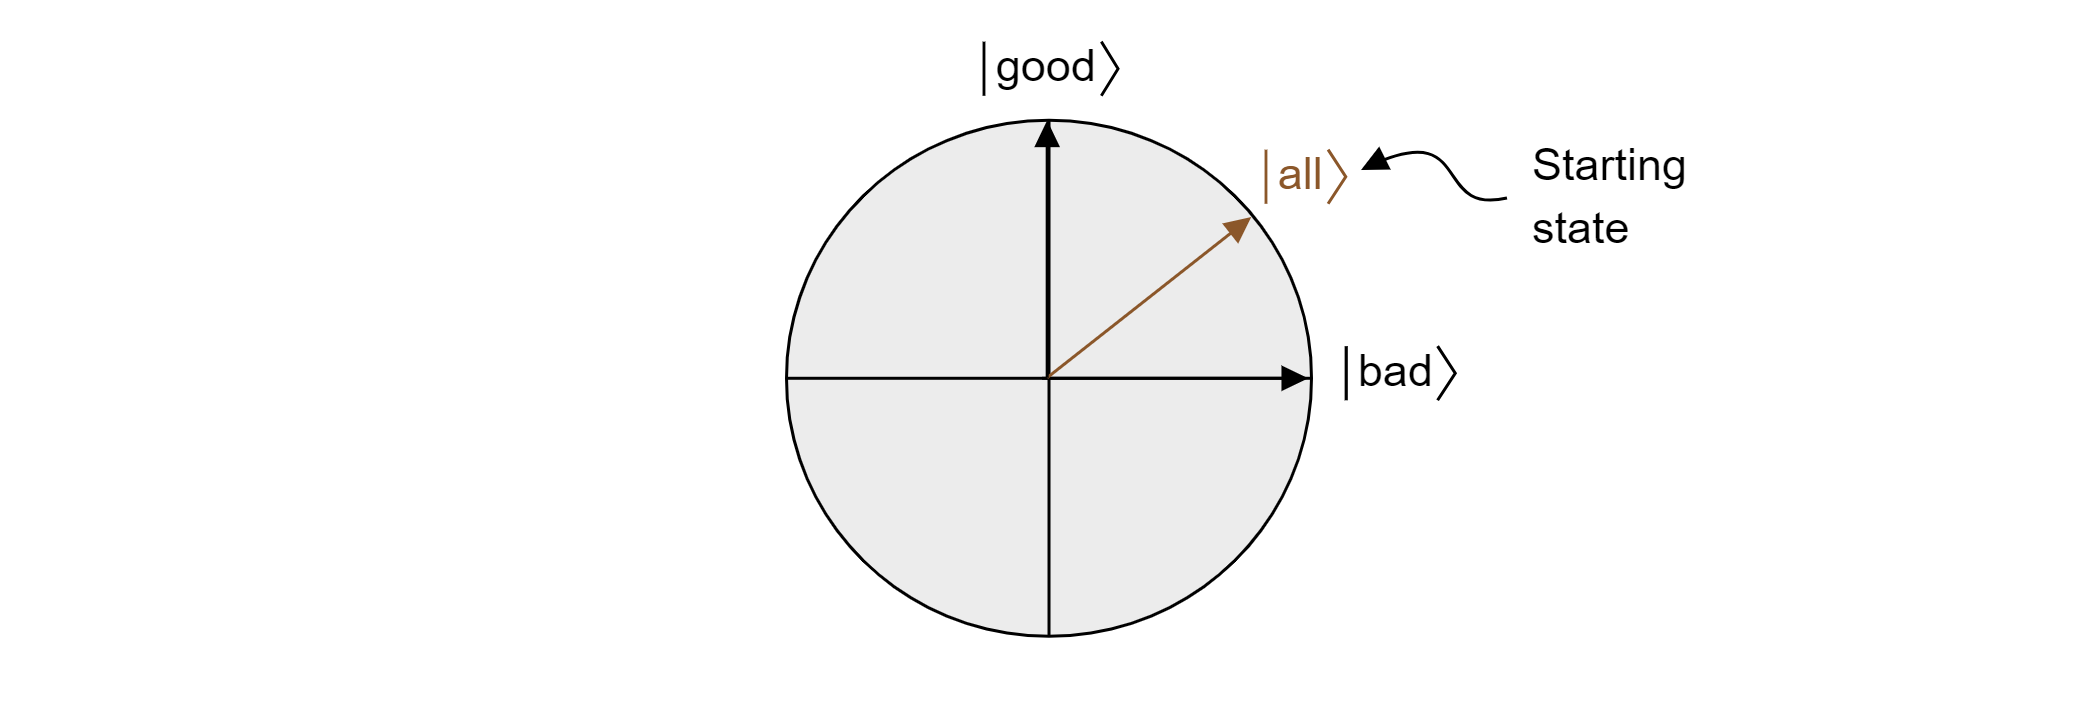
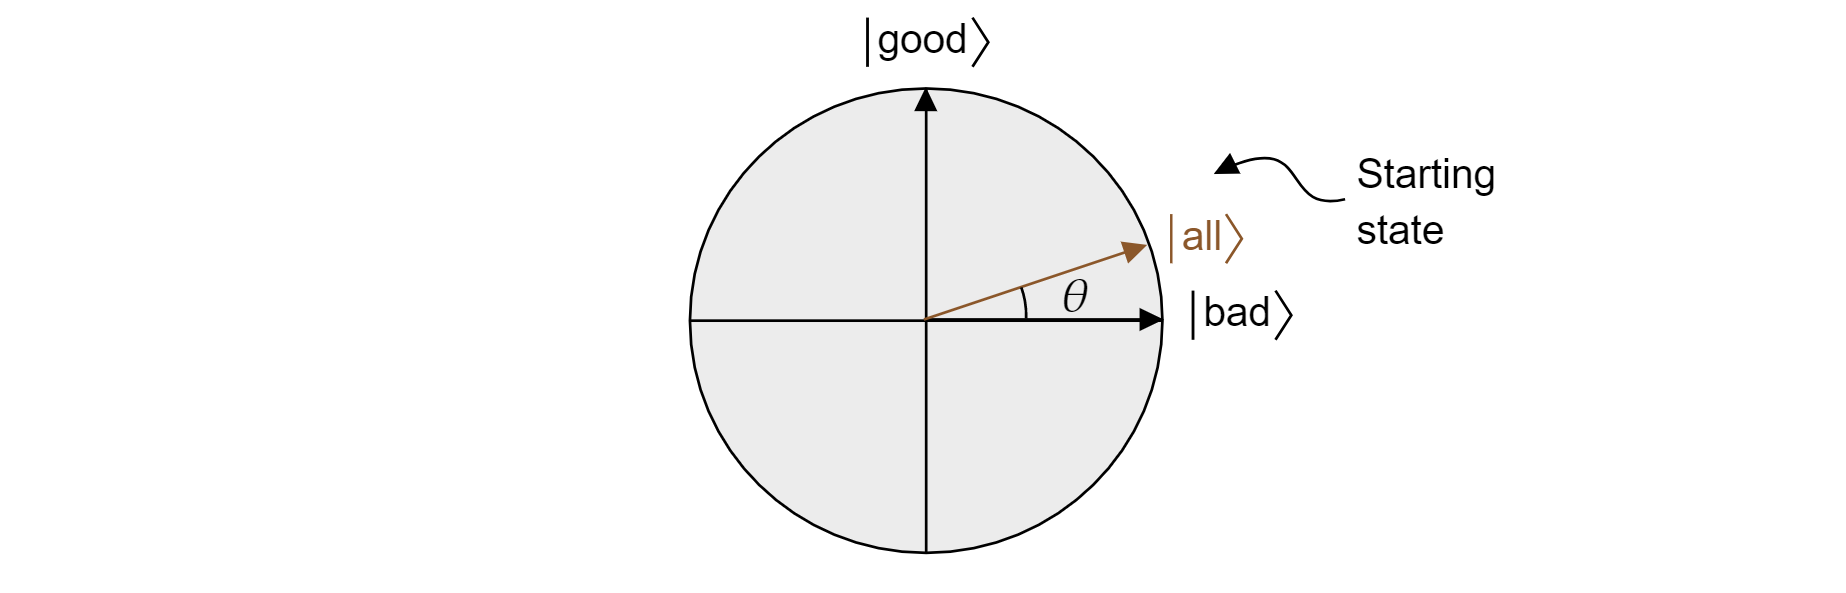
Updating article

diff --git a/articles/concepts-grovers.md b/articles/concepts-grovers.md
@@ -20,13 +20,13 @@ problems you can read our [guide to implement Grover's search algorithm](xref:mi
 
 ## Statement of the problem
 
-Any searching task can be expressed with an abstract function $f(x)$ that accepts search items $x$. If the item $x$ is a solution for the search task, then $f(x)=1$. If the item $x$ isn't a solution, then $f(x)=0$. The search problem consists on finding any item $x_0$ such that $f(x_0)=1$. This is, an item $x_0$ that is a solution of the search problem.
+Any searching task can be expressed with an abstract function $f(x)$ that accepts search items $x$. If the item $x$ is a solution for the search task, then $f(x)=1$. If the item $x$ isn't a solution, then $f(x)=0$. The search problem consists in finding any item $x_0$ such that $f(x_0)=1$. This is, an item $x_0$ that is a solution to the search problem.
 
 The task that Grover's algorithm aims to solve is, given a classical function $f(x):\\{0,1\\}^n \rightarrow\\{0,1\\}$, find an input $x_0$ for which $f(x_0)=1$.
 
 ## Outline of the algorithm
 
-Suppose we have $N=2^n$ eligible items for the search task and we index them by assigning each item a integer from $0$ to
+Suppose we have $N=2^n$ eligible items for the search task and we index them by assigning each item an integer from $0$ to
 $N-1$. The steps of the algorithm are:
 
 1. Start with a register of $n$ qubits initialized in the state $\ket{0}$ by applying $H$ to each qubit of the register.
@@ -39,7 +39,10 @@ $N-1$. The steps of the algorithm are:
 1. Measure the register to obtain the index of a item that's a solution with very high probability.
 1. Check if it's a valid solution. If not, start again.
 
-$N_{\text{optimal}} is the optimal number of iterations that maximizes the likelihood of obtaining the correct item by measuring the register.
+$N_\text{optimal} = \lfloor\lfloor \frac{\pi}{4}\sqrt{\frac{N}{M}}-\frac{1}{2} \right\rflor$ is the optimal number of iterations that maximizes the likelihood of obtaining the correct item by measuring the register.
+
+> [!NOTE]
+> The joint application of the steps 3.b, 3.c and 3.d is usually called in the literature as the Grover's diffusion operator.
 
 The overall unitary operation applied to the register is:
 
@@ -60,25 +63,25 @@ To illustrate the process, let's follow the mathematical transformations of the 
 
 1. Then $H$ acts on each qubit again to give:
 
-  $$|\text{register}\rangle = \frac12(\ket{00}+\ket{01}-\ket{10}+\ket{11})
+   $$|\text{register}\rangle = \frac12(\ket{00}+\ket{01}-\ket{10}+\ket{11})
 
 1. Now we apply the conditional phase shift on every state except $\ket{00}$:
 
-  $$|\text{register}\rangle = \frac12(\ket{00}-\ket{01}+\ket{10}-\ket{11})
+   $$|\text{register}\rangle = \frac12(\ket{00}-\ket{01}+\ket{10}-\ket{11})
 
 1. Now we end the first Grover iteration by applying $H$ again to get:
 
-   $$|\text{register}\rangle = \ket{01}
+    $$|\text{register}\rangle = \ket{01}
 
    We found the valid item in a single iteration. As we will see later, this is because for N=4 and a single valid item, $N_\text{optimal}=1$.
 
 ## Geometrical explanation
 
-To see why Grover's algorithm works let's study the algorithm from a geometrical perspective. Let be $\ket{bad}$ the superposition of all states that aren't a solution of the search problem. Supposing there are $M$ valid solutions, this is:
+To see why Grover's algorithm works let's study the algorithm from a geometrical perspective. Let $\ket{bad}$ be the superposition of all states that aren't a solution to the search problem. Supposing there are $M$ valid solutions, this is:
 
 $$\ket{\text{bad}}=\frac{1}{\sqrt{N-M}}\sum_{x:f(x)=0}\ket{x}$$
 
-Then, we define the state $\ket{good}$ as the superposition of all states that are a solution of the search problem:
+We define the state $\ket{good}$ as the superposition of all states that are a solution to the search problem:
 
 $$\ket{\text{good}}=\frac{1}{\sqrt{M}}\sum_{x:f(x)=1}\ket{x}$$
 
@@ -91,7 +94,7 @@ Now, suppose $\ket{\psi}$ is an arbitrary state that lives in the plane spanned 
 
 $$\ket{\psi} = \alpha \ket{\text{good}} + \beta \ket{\text{bad}}$$
 
-Now, let's introduce the reflection operator $R_{\ket{\psi}}$, where $\ket{\psi}$ is any qubit state. The operator is defined as:
+where $\alpha$ and $\beta$ are real numbers. Now, let's introduce the reflection operator $R_{\ket{\psi}}$, where $\ket{\psi}$ is any qubit state living in the plane. The operator is defined as:
 
 $$R_{\ket{\psi}}=2\ket{\psi}\bra{\psi}-\mathcal{I}$$
 
@@ -103,7 +106,7 @@ If we apply the operator $R_{\ket{\psi}}$ to $\ket{\xi}$ we get:
 
 $$R_{\ket{\psi}}\ket{\xi}=\mu \ket{\psi} - \nu {\ket{\psi^{\perp}}}$$
 
-The operator $R_\ket{\psi}$ inverts the component orthogonal to $\ket{\psi}$ but leaving the $\ket{\psi}$ component unchanged. Therefore $R_\ket{\psi}$ is a reflection about $\ket{\psi}$.
+The operator $R_\ket{\psi}$ inverts the component orthogonal to $\ket{\psi}$ but leaves the $\ket{\psi}$ component unchanged. Therefore, $R_\ket{\psi}$ is a reflection about $\ket{\psi}$.
 
 ![](./media/reflection-operator.png)
 
@@ -113,9 +116,9 @@ $$\ket{\text{all}} = \sqrt{\frac{M}{N}}\ket{\text{good}} + \sqrt{\frac{N-M}{N}}\
 
 ![](./media/starting-state.png)
 
-And therefore the state lives in the plane. Note that the probability of obtaining a correct result when measuring from the equal superposition is just $|\braket{\text{good}|{\text{all}}}|^2=M/N$, that is what we should expect from guessing at random.
+And thus the state lives in the plane. Note that the probability of obtaining a correct result when measuring from the equal superposition is just $|\braket{\text{good}|{\text{all}}}|^2=M/N$, that is what we expect from a random guess.
 
-The oracle $O_f$ adds a negative phase to any solution of the search problem. Therefore, it can be written as a reflection about the $\ket{\text{bad}}$ axis. This is:
+The oracle $O_f$ adds a negative phase to any solution to the search problem. Therefore, it can be written as a reflection about the $\ket{\text{bad}}$ axis. This is:
 
 $$O_f = R_{\ket{\text{bad}}} = 2\ket{\text{bad}}\bra{\text{bad}} - \mathcal{I}$$
 
@@ -123,17 +126,60 @@ Analogously, the conditional phase shift $O_0$ is just an inverted reflection ab
 
 $$O_0 = R_{\ket{0}}=  -2\ket{0}\bra{0} + \mathcal{I}$$
 
-Knowing this, it's easy to check that the Grover's diffusion operation $-H^{\otimes n} O_0 H^{\otimes n}$ is also a reflection about the state $\ket{all}$. Just do:
+Knowing this fact, it's easy to check that the Grover's diffusion operation $-H^{\otimes n} O_0 H^{\otimes n}$ is also a reflection about the state $\ket{all}$. Just do:
 
 $$H^{\otimes n} O_0 H^{\otimes n}=2H^{\otimes n}\ket{0}\bra{0}H^{\otimes n}
 -H^{\otimes n}\mathcal{I}H^{\otimes n} = 2\ket{\text{all}}\bra{\text{all}} - \mathcal{I} = R_{\ket{\text{all}}}$$
 
 We just demonstrated that each iteration of the Grover's algorithm is a composition of two rotations $R_\ket{\text{bad}}$ and $R_\ket{\text{all}}$.
 
-IMAGES HERE
+![](./media/grovers-iteration.png)
+
+The resulting operation after each Grover's iteration is a counterclockwise
+rotation of an angle $2\theta$. Fortunately, the angle $\theta$ is easy to find.
+Since $\theta$ is just the angle between $\ket{\text{all}}$ and $\ket{\text{bad}}$ we can use
+the scalar product to find the angle. We know that
+$\cos{\theta}=\braket{\text{all}|\text{bad}}$, so we need to calculate $\braket{\text{all}|\text{bad}}$. From the decomposition of $\ket{\text{all}}$ in terms of $\ket{\text{bad}}$ and $\ket{\text{good}}$, we get that:
+
+$$\theta = \arccos{\left(\braket{\text{all}|\text{bad}}\right)}= \arccos{\left(\sqrt{\frac{N-M}{N}}\right)} $$
+
+The angle between the state of the register and the $\ket{\text{good}}$ state will decrease in each iteration, resulting in a higher probability of measuring a valid result. To calculate this probability we just need to calculate $|\braket{\text{good}|\text{register}}|^2$. The angle $\gamma (k)$ between $\ket{\text{good}}$ and $\ket{\text{register}}$ for each iteration $k$ is just 
+$$\gamma (k) = \frac{\pi}{2}-\theta -k2\theta = \frac{\pi}{2} -(2k + 1)  \theta $$.
+
+Therefore, the probability is just:
+
+$P(\text{success}) = \cos^2(\gamma(k)) = \sin^2\left[(2k +1)\arccos \left( \sqrt{\frac{N-M}{N}}\right)\right]$
 
 ## Optimal number of iterations
 
+If the probability of success as a function of the number of iterations. To find the optimal number of iterations $N_{\text{optimal}}$, we need to find the integer that maximizes it in the first cycle of the function.
+
+![](./media/success-probability-grovers.png)
+
+We know that $\sin^2{x}$ reaches it's first maximum for $x=\frac{pi}{2}$, so we just need
+to make:
+
+$$\frac{\pi}{2}=(2k_{\text{optimal}} +1)\arccos \left( \sqrt{\frac{N-M}{N}}\right)\right$$
+
+This gives us that:
+
+$$k_{\text{optimal}} = \frac{\pi}{4\arccos\left(\sqrt{1-M/N}\right)}-1/2 = \frac{\pi}{4}\sqrt{\frac{N}{M}}-\frac{1}{2}-O\left(\sqrt\frac{M}{N}\right)$$
+
+Where in the last step we used the fact that $\arccos \sqrt{1-x} = \sqrt{x} + O(x^{3/2})$.
+
+Therefore we can pick $N_\text{optimal}$ to be $N_\text{optimal} = \lfloor\lfloor \frac{\pi}{4}\sqrt{\frac{N}{M}}-\frac{1}{2} \right\rflor$.
+
 ## Complexity analysis
 
-## Limitations and oportunities
+We know that we need $O\left(\sqrt{\frac{N}{M}}\right)$ uses of the oracle $O_f$ to find a valid item. However, can the algorithm be implemented efficiently in terms of time complexity? $O_0$ can be implemented using $O(\log n)$ layers of classical gates. Then we have the two layers of $n$ Hadamard gates. So the overhead is $O(n)$ gates per iteration, and
+depth only $O(log n)$. This is small compared with the number of iterations $Θ(2n/2)$.
+
+The overall complexity of the algorithm will ultimately depend on the complexity of the implementation of the oracle $O_f$. If a function evaluation is much more complicated on a quantum computer than on a classical one, the overall algorithm runtime will be longer in the quantum case, even though technically, it will use fewer queries.
+
+## References
+
+If you want to continue learning about Grover's algorithm, you can check any of the following sources:
+
+- [Original paper by Lov K. Grover](https://arxiv.org/abs/quant-ph/9605043)
+- Quantum search algorithms section of Nielsen, M. A. & Chuang, I. L. (2010). Quantum Computation and Quantum Information.
+- [Grover's algorithm on Arxiv.org](https://arxiv.org/search/?searchtype=all&query=Grover%27s+algorithm&abstracts=show&size=50&order=announced_date_first)
